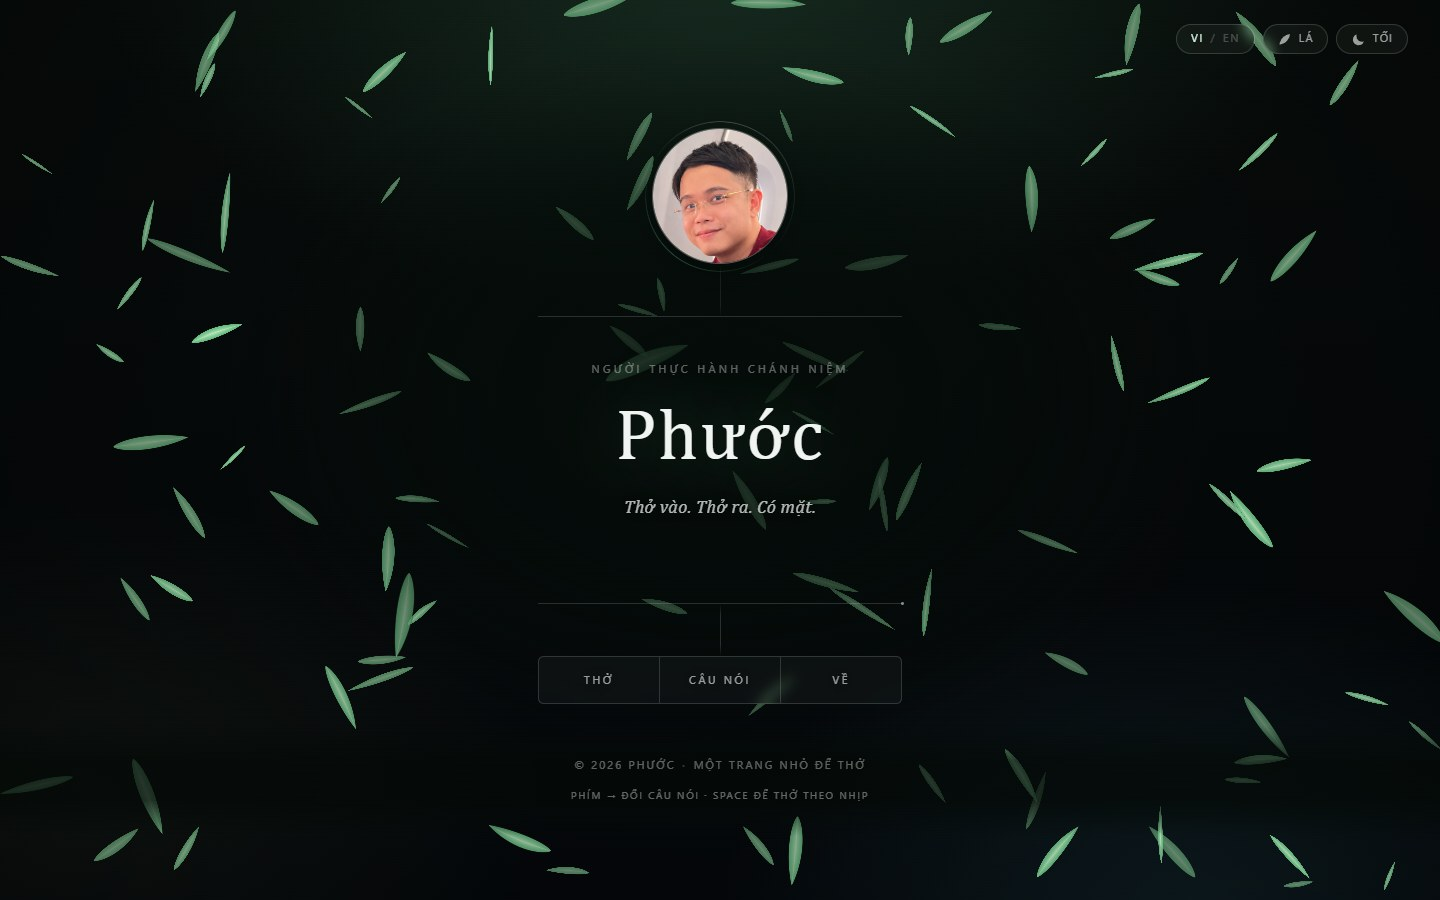
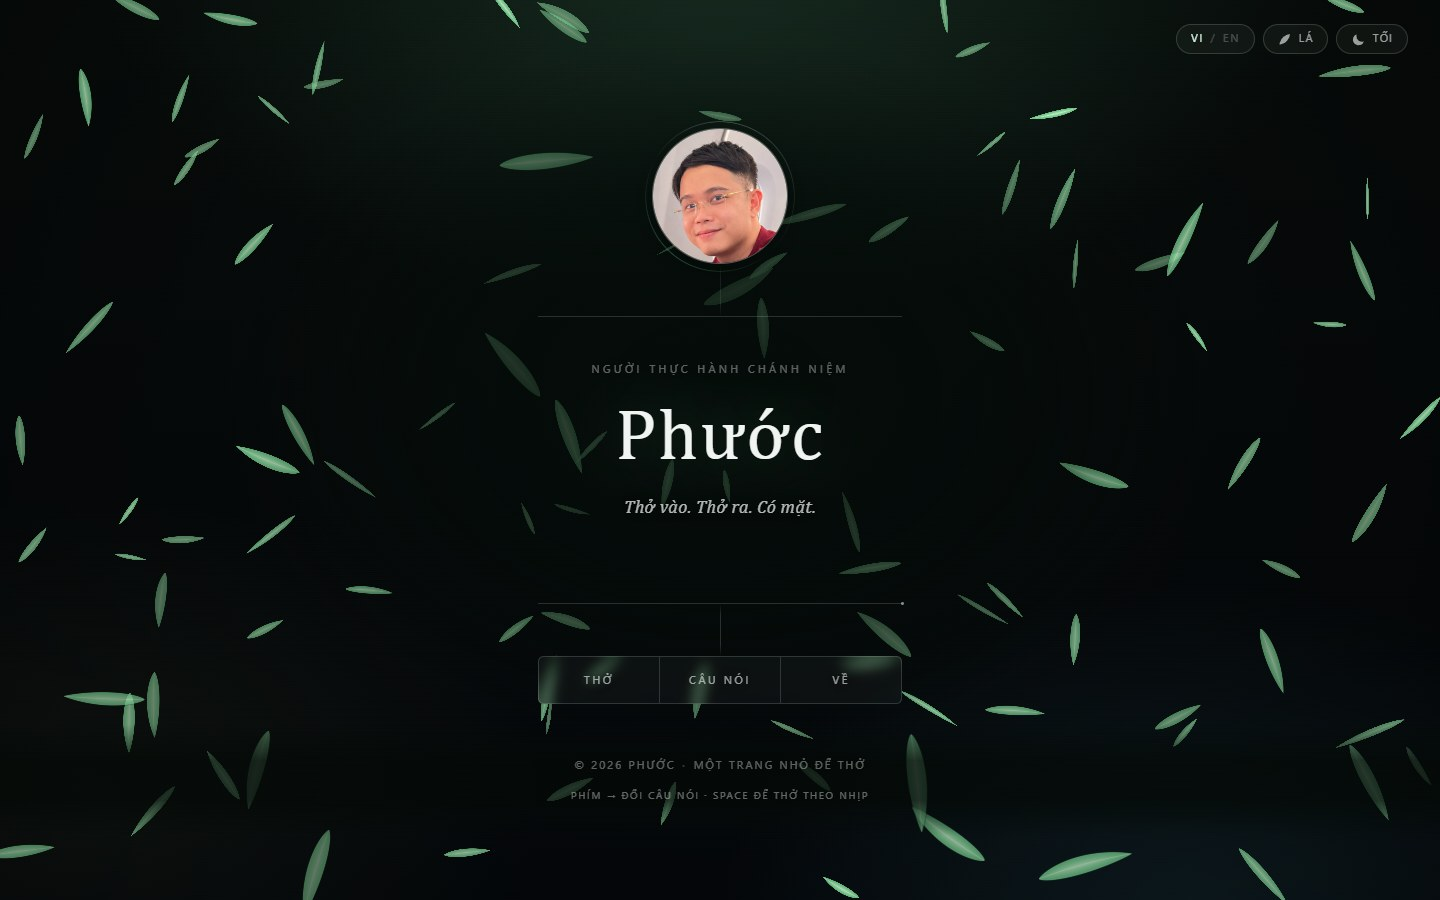
Anh dai dien JPEG 480px (41KB thay vi 258KB), cap nhat README va anh xem truoc

diff --git a/index.html b/index.html
@@ -38,7 +38,7 @@
 			property="og:description"
 			content="Một trang nhỏ để thở. Vài câu nói về tỉnh thức, chánh niệm và sự trở về với giây phút hiện tại."
 		/>
-		<meta property="og:image" content="images/branding/avatar.png" />
+		<meta property="og:image" content="images/branding/avatar.jpg" />
 		<meta name="twitter:card" content="summary" />
 		<meta name="twitter:title" content="Phước — Tỉnh thức &amp; Chánh niệm" />
 		<meta
@@ -47,7 +47,7 @@
 		/>
 
 		<link rel="icon" href="images/branding/favicon.svg" type="image/svg+xml" />
-		<link rel="apple-touch-icon" href="images/branding/avatar.png" />
+		<link rel="apple-touch-icon" href="images/branding/avatar.jpg" />
 
 		<link rel="stylesheet" href="styles/base.css" />
 		<link rel="stylesheet" href="styles/pages/home.css" />
@@ -123,7 +123,7 @@
 					<div class="hero__avatar-frame">
 						<img
 							class="hero__avatar"
-							src="images/branding/avatar.png"
+							src="images/branding/avatar.jpg"
 							alt="Chân dung Phước"
 							title="Phước"
 							width="144"

diff --git a/scripts/assets/make-photo-avatar.py b/scripts/assets/make-photo-avatar.py
@@ -19,8 +19,8 @@ SOURCE = BRANDING / "avatar-source.jpg"
 # Ảnh gốc 1064×1280: tóc bắt đầu ở y≈215, cằm ở y≈680, mặt rộng x≈390–690.
 CROP = (260, 175, 560)
 
-# Kích thước xuất. 512 là đủ cho khung tròn ~100 px kể cả màn hình 3x.
-SIZE = 512
+# Khung tròn hiển thị tối đa ~136 px; ở màn hình 3x cần ~410 px ảnh, nên 480 px là đủ.
+SIZE = 480
 
 
 def main():
@@ -41,9 +41,9 @@ def main():
     # Làm nét nhẹ sau khi thu nhỏ để mắt và gọng kính không bị mềm.
     avatar = avatar.filter(ImageFilter.UnsharpMask(radius=1.6, percent=52, threshold=3))
 
-    avatar.save(BRANDING / "avatar.png", optimize=True)
+    avatar.save(BRANDING / "avatar.jpg", quality=90, optimize=True, progressive=True)
 
-    print("Created:", BRANDING / "avatar.png", avatar.size)
+    print("Created:", BRANDING / "avatar.jpg", avatar.size)
 
 
 if __name__ == "__main__":

diff --git a/scripts/assets/make-avatar.py b/scripts/assets/make-avatar.py
@@ -166,10 +166,10 @@ def main():
     BRANDING.mkdir(parents=True, exist_ok=True)
 
     avatar = build_avatar()
-    avatar.save(BRANDING / "avatar.png", optimize=True)
+    avatar.save(BRANDING / "avatar.jpg", quality=92, optimize=True, progressive=True)
     avatar.resize((64, 64), Image.LANCZOS).save(BRANDING / "favicon.png", optimize=True)
 
-    print("Created:", BRANDING / "avatar.png")
+    print("Created:", BRANDING / "avatar.jpg")
     print("Created:", BRANDING / "favicon.png")
 
 

diff --git a/README.md b/README.md
@@ -96,7 +96,7 @@ giới thiệu chỉ cần sửa file này.
 ### 2. Ảnh đại diện
 
 Ảnh gốc để ở `images/branding/avatar-source.jpg`. Script cắt một khung vuông quanh mặt rồi xuất
-`avatar.png` 512×512:
+`avatar.jpg` 480×480:
 
 ```bash
 python scripts/assets/make-photo-avatar.py    # cần Pillow
@@ -114,10 +114,10 @@ python scripts/assets/make-avatar.py
 Script này vẽ chữ "P" trên nền xanh tối, vài lá trúc ở rìa; sửa `TOP`, `BOTTOM`, `LEAF` hoặc chữ
 trong `build_avatar()` nếu muốn khác.
 
-Cách nhanh nhất vẫn là ghi đè thẳng `images/branding/avatar.png` bằng một ảnh vuông từ 512 px
+Cách nhanh nhất vẫn là ghi đè thẳng `images/branding/avatar.jpg` bằng một ảnh vuông từ 512 px
 trở lên — trang dùng `object-fit: cover` nên ảnh không vuông cũng không bị méo.
 
-> Favicon là `images/branding/favicon.svg` (một lá trúc); `favicon.png` chỉ là bản dự phòng.
+> Ảnh đại diện xuất JPEG cho nhẹ (480 px, ~40 KB thay vì ~250 KB nếu dùng PNG).\n> Favicon là `images/branding/favicon.svg` (một lá trúc); `favicon.png` chỉ là bản dự phòng.
 
 ### 3. Màu sắc và chữ
 
